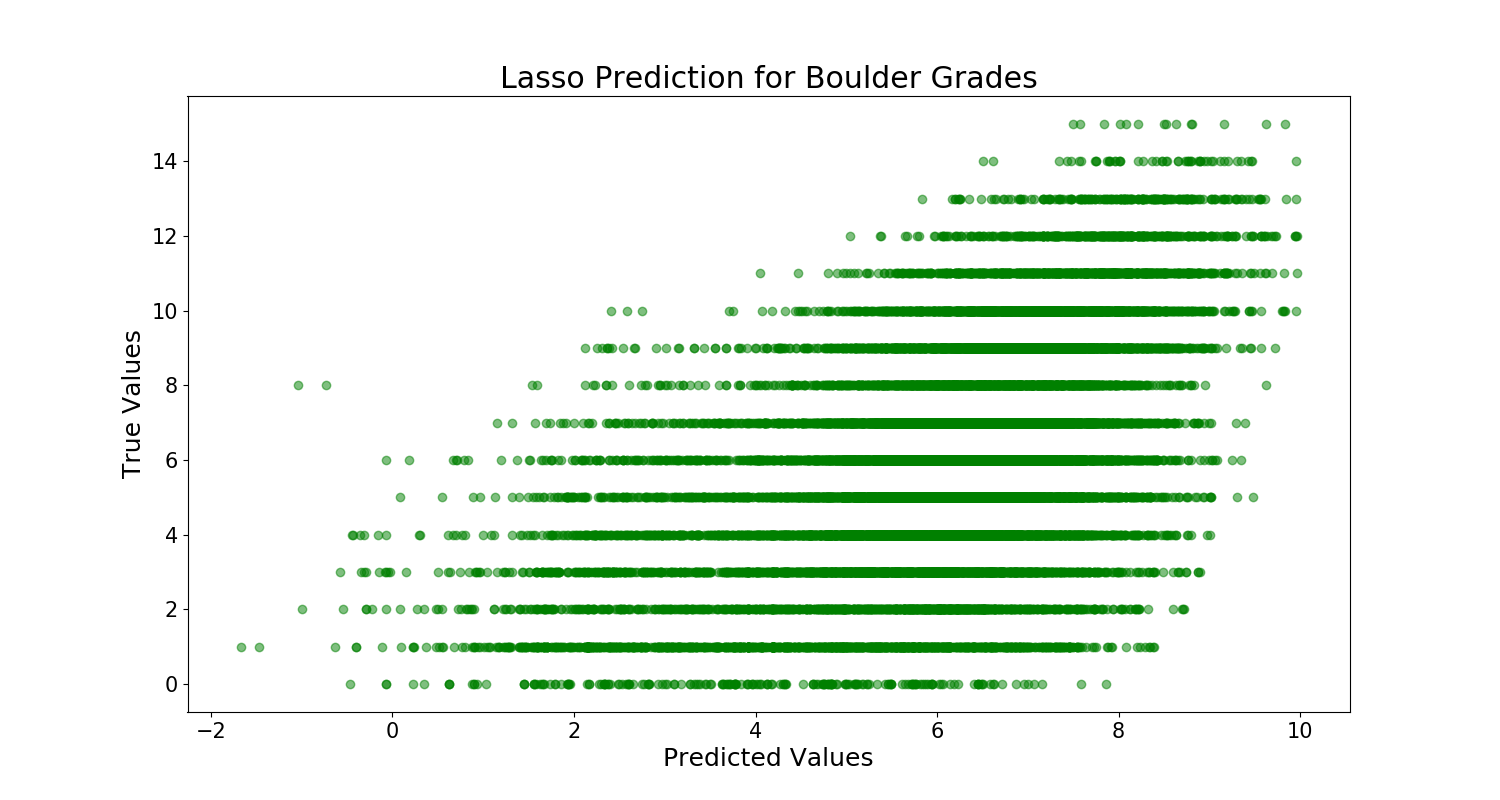
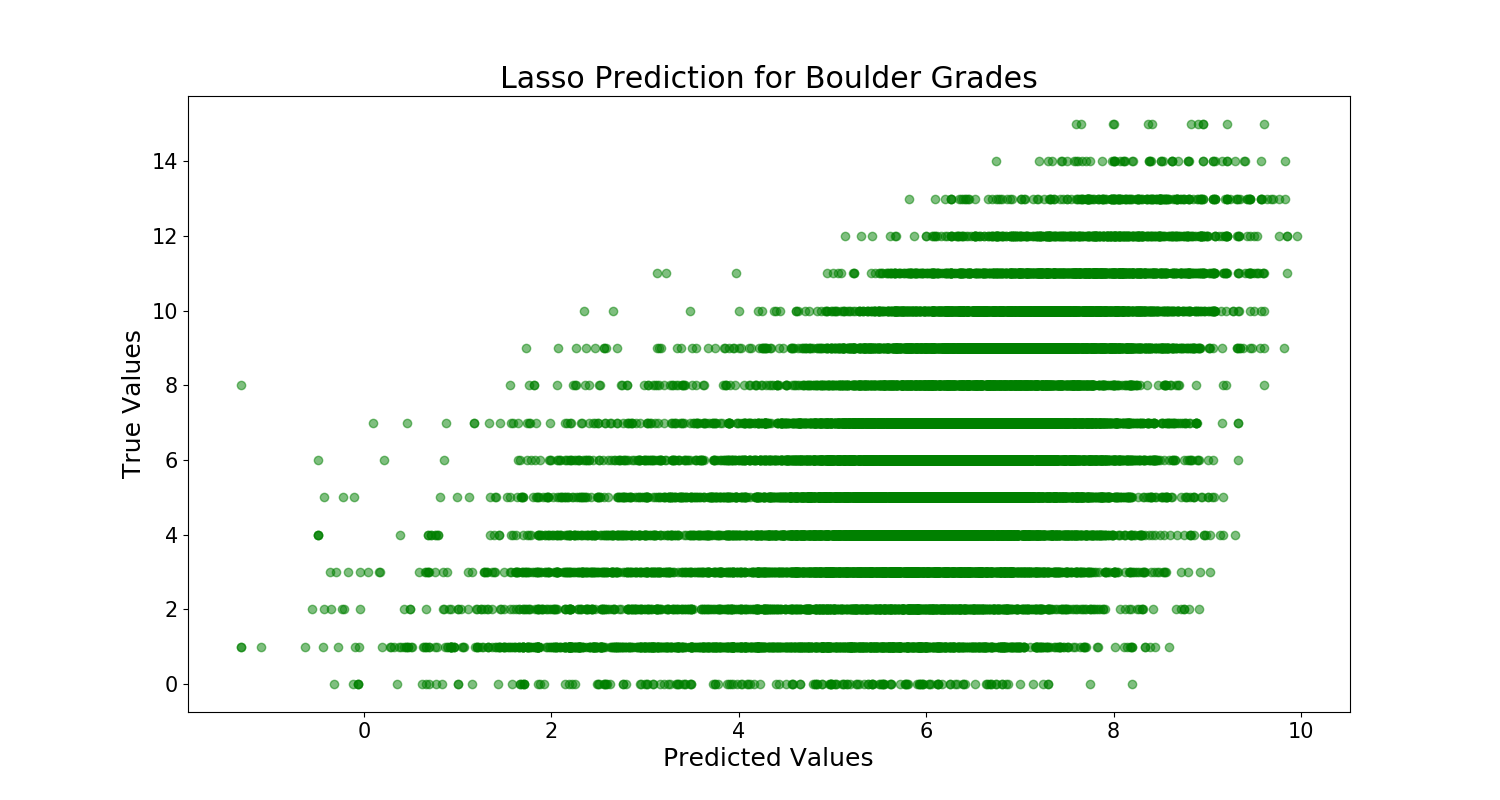
Move ability code to ability script, add final and mse plots to grades

diff --git a/src/model.py b/src/model.py
@@ -6,7 +6,7 @@ from sklearn.model_selection import train_test_split, KFold
 from sklearn.preprocessing import StandardScaler
 from sklearn.base import clone
 import matplotlib.pyplot as plt
-from sklearn.metrics import mean_squared_error
+from sklearn.metrics import mean_squared_error as mse
 import utils
 
 import matplotlib as mpl
@@ -23,36 +23,15 @@ boulders = pd.read_csv('/Users/Kelly/galvanize/capstones/mod1/data/boulders.csv'
 routes = pd.read_csv('/Users/Kelly/galvanize/capstones/mod1/data/routes.csv')
 
 def drop_columns_grades(df):
-    cols = ['Unnamed: 0' ,'notes','climb_type','crag','sector','climb_country','method','birth','ascent_date','date','grade_id','climb_name','ascent_date_day','ascent_date_month','chipped']
-    for df in [routes,boulders]:
-        for col in cols:
-            df.drop(col,axis=1,inplace=True)
+    cols = ['Unnamed: 0','notes','climb_type','crag','sector','climb_country','method','birth','ascent_date','date','grade_id','climb_name','ascent_date_day','ascent_date_month','chipped']
+    for col in cols:
+        df.drop(col,axis=1,inplace=True)
     return df
-
-boulder = drop_columns_grades(boulders)
-route = drop_columns_grades(routes)
 
 def split_data_grades(df,target_column):
     train, test = train_test_split(df, test_size=.25)
     X_train, y_train = train.drop(target_column, axis=1).values, train[target_column].values
     X_hold, y_hold = test.drop(target_column, axis=1).values, test[target_column].values
-    return X_train, y_train, X_hold, y_hold
-
-def drop_columns_ability():
-    cols = ['Unnamed: 0' ,'notes','climb_type','crag','sector','climb_country','method','birth','ascent_date','date','climb_name']
-    for df in [routes,boulders]:
-        for col in cols:
-            df.drop(col,axis=1,inplace=True)
-    return df
-
-def split_data_ability(df,col, sample_num):
-    train, test = train_test_split(df, test_size=.25)
-    y_train = train.col[train['ascent_date_year'] == 2017].values
-    X_train = train[train['ascent_date_year'] != 2017].sample(sample_num)
-    X_train = X_train.values
-    y_hold = test.col[test['ascent_date_year'] == 2017].values
-    X_hold = test[test_size['ascent_date_year'] != 2017].sample(sample_num)
-    X_hold = X_hold.values
     return X_train, y_train, X_hold, y_hold
 
 def run_ridge_model(X,y):
@@ -67,7 +46,7 @@ def run_ridge_model(X,y):
     y_hats_std = ridge.predict(X_test_std)
     X_test, y_hats = standardizer.inverse_transform(X_test_std,y_hats_std)
     ridge_score = ridge.score(X_test_std,y_test_std)
-    return ridge, ridge_score, y_hats, y_test
+    return ridge, ridge_score, y_hats, y_test, X_test
 
 def run_lasso_model(X,y):
     X_train, X_test, y_train, y_test = train_test_split(X, y)
@@ -81,7 +60,7 @@ def run_lasso_model(X,y):
     y_hats_std = lasso.predict(X_test_std)
     X_test, y_hats = standardizer.inverse_transform(X_test_std,y_hats_std)
     lasso_score = lasso.score(X_test_std,y_test_std)
-    return lasso, lasso_score, y_hats, y_test
+    return lasso, lasso_score, y_hats, y_test, X_test
 
 def get_coefs(model,X):
     df = pd.DataFrame(model.coef_)
@@ -107,12 +86,35 @@ def find_error_scores(X,y,model_function,n):
         rss_scores.append(mean_squared_error(y_true,y_hat))
     return max(r2_scores),min(rss_scores)
 
+def plot_mse(model, X_train, y_train, X_test, y_test,title,filename):
+    train_errors = []
+    test_errors = []
+    train_pred = model.predict(X_train)
+    test_pred = model.predict(X_test)
+    for alpha in model.alphas:
+        train_errors.append(mse(y_train, train_pred))
+        test_errors.append(mse(y_test,test_pred))
+
+    fig, ax = plt.subplots(figsize=(14, 4))
+
+    ax.plot(np.log10(model.alphas), train_errors)
+    ax.plot(np.log10(model.alphas), test_errors)
+    ax.axvline(np.log10(model.alpha_), color='grey')
+    ax.set_title(title)
+    ax.set_xlabel(r"$\log(\alpha)$")
+    ax.set_ylabel("MSE")
+    plt.savefig(filename)
+
+
 def get_boulder_models():
+    boulder = drop_columns_grades(boulders)
     X_train, y_train, X_hold, y_hold = split_data_grades(boulder,'usa_boulders')
-    boulder_ridge, boulder_ridge_score, ridge_y_hats, ridge_y_true = run_ridge_model(X_train,y_train)
-    boulder_lasso, boulder_lasso_score,lasso_y_hats, lasso_y_true = run_lasso_model(X_train,y_train)
+    boulder_ridge, boulder_ridge_score, ridge_y_hats, ridge_y_true, ridge_X_test = run_ridge_model(X_train,y_train)
+    boulder_lasso, boulder_lasso_score,lasso_y_hats, lasso_y_true, lasso_X_test = run_lasso_model(X_train,y_train)
     plot_model_predictions(ridge_y_true,ridge_y_hats,'Ridge Prediction for Boulder grades','images/ridge_model_boulder.png')
     plot_model_predictions(lasso_y_true,lasso_y_hats,'Lasso Prediction for Boulder Grades','images/lasso_model_boulder.png')
+    plot_mse(boulder_ridge, X_train, y_train, ridge_X_test, ridge_y_true,"Ridge Regression Train and Test MSE" , 'images/boulder_ridge_MSE.png')
+    plot_mse(boulder_lasso, X_train, y_train, lasso_X_test, lasso_y_true,"Lasso Regression Train and Test MSE" , 'images/boulder_lasso_MSE.png')
     print('The Ridge R2 score is {}'.format(boulder_ridge_score))
     print('The optimal ridge alpha is {}'.format(boulder_ridge.alpha_))
     print('The Lasso R2 score is {}'.format(boulder_lasso_score))
@@ -120,9 +122,17 @@ def get_boulder_models():
     return X_train, y_train, X_hold, y_hold, boulder_ridge, boulder_lasso
 
 def get_route_models():
-    X_train, y_train, X_hold, y_hold = split_data(route,'usa_routes')
-    routes_ridge, routes_ridge_score, y_hats, y_test = run_ridge_model(X_train,y_train)
-    routes_lasso, routes_lasso_score = run_lasso_model(X_train,y_train)
+    route = drop_columns_grades(routes)
+    X_train, y_train, X_hold, y_hold = split_data_grades(route,'usa_routes')
+    route_ridge, route_ridge_score, ridge_y_hats, ridge_y_true = run_ridge_model(X_train,y_train)
+    route_lasso, route_lasso_score,lasso_y_hats, lasso_y_true = run_lasso_model(X_train,y_train)
+    plot_model_predictions(ridge_y_true,ridge_y_hats,'Ridge Prediction for Route grades','images/ridge_model_route.png')
+    plot_model_predictions(lasso_y_true,lasso_y_hats,'Lasso Prediction for Route Grades','images/lasso_model_route.png')
+    print('The Ridge R2 score is {}'.format(route_ridge_score))
+    print('The optimal ridge alpha is {}'.format(route_ridge.alpha_))
+    print('The Lasso R2 score is {}'.format(route_lasso_score))
+    print('The optimal lasso alpha is {}'.format(route_lasso.alpha_))
+    return X_train, y_train, X_hold, y_hold, route_ridge, route_lasso
 
 def make_scatter_plots(df,target):
     all_columns = df.columns
@@ -142,12 +152,20 @@ def test_model_on_hold(X_train,y_train,X_hold,y_hold,model,alpha,title,filename)
     y_pred_std = final_model.predict(X_hold_std)
     X_hold, y_pred = standardizer.inverse_transform(X_hold,y_pred_std)
     plot_model_predictions(y_hold, y_pred, title, filename)
-    final_score = final_model.score(X_hold,y_hold)
+    final_score = final_model.score(X_hold_std,y_hold_std)
     print('Final R2 score: {}'.format(final_score))
+    return final_score
 
-def main():
+def main_boulder():
     X_train, y_train, X_hold, y_hold, boulder_ridge, boulder_lasso = get_boulder_models()
     alpha1 = boulder_ridge.alpha_
     alpha2 = boulder_lasso.alpha_
     test_model_on_hold(X_train,y_train,X_hold,y_hold,Ridge,alpha1,'Final Ridge Prediction for Boulder grades','images/ridge_model_boulder_final.png')
     test_model_on_hold(X_train,y_train,X_hold,y_hold,Lasso,alpha2,'Final Lasso Prediction for Boulder grades','images/lasso_model_boulder_final.png')
+
+def main_route():
+    X_train, y_train, X_hold, y_hold, route_ridge, route_lasso = get_route_models()
+    alpha1 = route_ridge.alpha_
+    alpha2 = route_lasso.alpha_
+    test_model_on_hold(X_train,y_train,X_hold,y_hold,Ridge,alpha1,'Final Ridge Prediction for Route grades','images/ridge_model_route_final.png')
+    test_model_on_hold(X_train,y_train,X_hold,y_hold,Lasso,alpha2,'Final Lasso Prediction for Route grades','images/lasso_model_route_final.png')

diff --git a/src/ability_predictor.py b/src/ability_predictor.py
@@ -7,29 +7,29 @@ from sklearn.preprocessing import StandardScaler
 from sklearn.base import clone
 from sklearn.metrics import mean_squared_error
 import matplotlib.pyplot as plt
-import grade_model
+import model
 
 boulders = pd.read_csv('/Users/Kelly/galvanize/capstones/mod1/data/boulders.csv')
 routes = pd.read_csv('/Users/Kelly/galvanize/capstones/mod1/data/routes.csv')
 
-#drop columns that are either object types or correllated to another column
-cols = ['Unnamed: 0' ,'notes','climb_type','crag','sector','climb_country','method','birth','ascent_date','date','climb_name']
-for df in [routes,boulders]:
-    for col in cols:
-        df.drop(col,axis=1,inplace=True)
+def drop_columns_ability():
+    cols = ['Unnamed: 0' ,'notes','climb_type','crag','sector','climb_country','method','birth','ascent_date','date','climb_name']
+    for df in [routes,boulders]:
+        for col in cols:
+            df.drop(col,axis=1,inplace=True)
+    return df
 
+def split_data_ability(df,col, sample_num):
+    train, test = train_test_split(df, test_size=.25)
+    y_train = train.col[train['ascent_date_year'] == 2017].values
+    X_train = train[train['ascent_date_year'] != 2017].sample(sample_num)
+    X_train = X_train.values
+    y_hold = test.col[test['ascent_date_year'] == 2017].values
+    X_hold = test[test_size['ascent_date_year'] != 2017].sample(sample_num)
+    X_hold = X_hold.values
+    return X_train, y_train, X_hold, y_hold
 
-
-routes_y = routes.usa_routes[routes['ascent_date_year'] == 2017]
-routes_X = routes[routes['ascent_date_year'] != 2017].sample(6504)
-boulders_y = boulders.usa_boulders[boulders['ascent_date_year'] == 2017]
-boulders_X = boulders[boulders['ascent_date_year'] != 2017].sample(7200)
-
-def find_error_scores(X,y,model_function,n):
-    r2_scores = []
-    rss_scores = []
-    for i in range(n+1):
-        model, score, y_hat, y_true = model_function(X,y)
-        r2_scores.append(score)
-        rss_scores.append(mean_squared_error(y_true,y_hat))
-    return max(r2_scores),min(rss_scores)
+# routes_y = routes.usa_routes[routes['ascent_date_year'] == 2017]
+# routes_X = routes[routes['ascent_date_year'] != 2017].sample(6504)
+# boulders_y = boulders.usa_boulders[boulders['ascent_date_year'] == 2017]
+# boulders_X = boulders[boulders['ascent_date_year'] != 2017].sample(7200)
